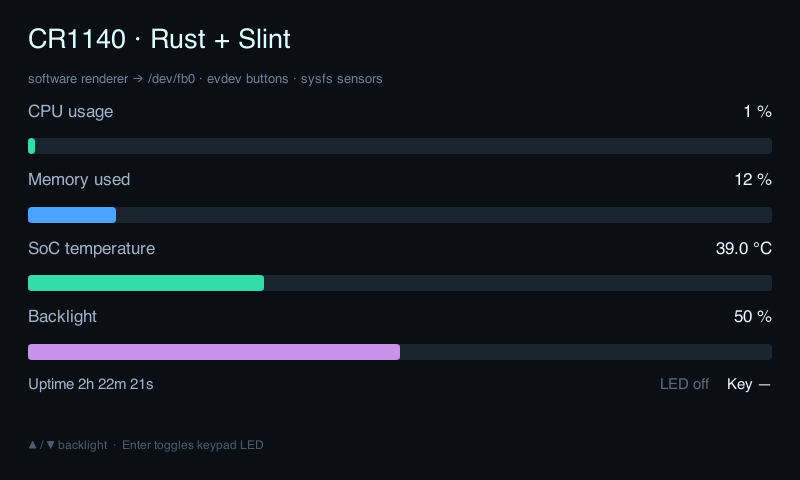
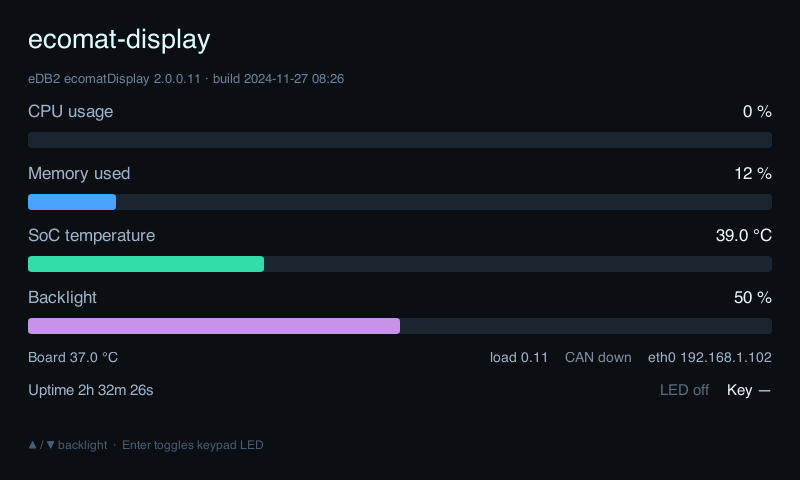
feat: promote Slint dashboard to autostart with real device telemetry
cr1140-app.service now runs cr1140-slint-demo. Dashboard shows real values:
hostname + firmware/build (/etc/os-release), CPU/mem/load/uptime, SoC temp
(cpu-thermal) and onboard board temp (lm75/hwmon), eth0 IP and can0 link state,
backlight + keypad LED. app-launcher/codesys stay masked for exclusive fb0.

diff --git a/cr1140-slint-demo/src/metrics.rs b/cr1140-slint-demo/src/metrics.rs
@@ -88,6 +88,57 @@ pub fn format_uptime(secs: f64) -> String {
     }
 }
 
+/// First field of `/proc/loadavg` = the 1-minute load average.
+pub fn parse_loadavg(content: &str) -> Option<f32> {
+    content.split_whitespace().next()?.parse().ok()
+}
+
+/// Look up a `KEY=value` entry in `/etc/os-release`, stripping optional quotes.
+pub fn os_release_value(content: &str, key: &str) -> Option<String> {
+    for line in content.lines() {
+        if let Some((k, v)) = line.split_once('=') {
+            if k == key {
+                return Some(v.trim().trim_matches('"').to_string());
+            }
+        }
+    }
+    None
+}
+
+// --- thin runtime readers (device I/O; exercised on-target, not in unit tests) ---
+
+pub fn read_loadavg() -> Option<f32> {
+    parse_loadavg(&fs::read_to_string("/proc/loadavg").ok()?)
+}
+
+/// Onboard lm75 board-temperature sensor (hwmon), distinct from the SoC zone.
+pub fn read_board_temp_c() -> Option<f32> {
+    let s = fs::read_to_string("/sys/class/hwmon/hwmon0/temp1_input").ok()?;
+    cr1140_hal::sys::parse::parse_millidegrees(&s)
+}
+
+/// `operstate` of a network interface, e.g. "up" / "down" for `eth0` / `can0`.
+pub fn read_operstate(iface: &str) -> String {
+    fs::read_to_string(format!("/sys/class/net/{iface}/operstate"))
+        .map(|s| s.trim().to_string())
+        .unwrap_or_else(|_| "?".into())
+}
+
+pub fn hostname() -> String {
+    fs::read_to_string("/proc/sys/kernel/hostname")
+        .map(|s| s.trim().to_string())
+        .unwrap_or_else(|_| "?".into())
+}
+
+/// Primary outbound IP, found by asking the kernel which source address it would
+/// use to reach a remote host. UDP `connect` only sets the route — no packets
+/// are sent — so this works offline and needs no extra dependency.
+pub fn local_ip() -> Option<String> {
+    let sock = std::net::UdpSocket::bind("0.0.0.0:0").ok()?;
+    sock.connect("8.8.8.8:80").ok()?;
+    Some(sock.local_addr().ok()?.ip().to_string())
+}
+
 #[cfg(test)]
 mod tests {
     use super::*;
@@ -127,5 +178,24 @@ mod tests {
     fn format_uptime_switches_on_hours() {
         assert_eq!(format_uptime(65.0), "1m 05s");
         assert_eq!(format_uptime(3725.0), "1h 02m 05s");
+    }
+
+    #[test]
+    fn parse_loadavg_reads_first_field() {
+        assert_eq!(parse_loadavg("0.17 0.08 0.08 1/99 12009"), Some(0.17));
+        assert_eq!(parse_loadavg(""), None);
+    }
+
+    #[test]
+    fn os_release_value_strips_quotes_and_matches_exactly() {
+        let s = "ID=edb2-ecomat-display\nPRETTY_NAME=\"eDB2 ecomatDisplay 2.0.0.11\"\nVERSION_ID=2.0.0.11\n";
+        assert_eq!(
+            os_release_value(s, "PRETTY_NAME").as_deref(),
+            Some("eDB2 ecomatDisplay 2.0.0.11")
+        );
+        assert_eq!(os_release_value(s, "VERSION_ID").as_deref(), Some("2.0.0.11"));
+        // exact key match: "ID" must not match "VERSION_ID"
+        assert_eq!(os_release_value(s, "ID").as_deref(), Some("edb2-ecomat-display"));
+        assert_eq!(os_release_value(s, "MISSING"), None);
     }
 }

diff --git a/cr1140-slint-demo/src/main.rs b/cr1140-slint-demo/src/main.rs
@@ -23,7 +23,8 @@ fn main() -> Result<(), Box<dyn std::error::Error>> {
     use cr1140_hal::input::{Button, ButtonEvent, ButtonReader};
     use cr1140_hal::sys::{backlight_max, read_temp_c, set_backlight, set_led};
     use metrics::{
-        format_uptime, mem_used_percent, parse_meminfo, parse_uptime, CpuSampler,
+        format_uptime, hostname, local_ip, mem_used_percent, os_release_value, parse_meminfo,
+        parse_uptime, read_board_temp_c, read_loadavg, read_operstate, CpuSampler,
     };
     use pixel::Xrgb8888;
     use platform::FbPlatform;
@@ -74,6 +75,16 @@ fn main() -> Result<(), Box<dyn std::error::Error>> {
         ui.set_backlight_text(format!("{pct} %").into());
     };
     push_backlight(&ui, backlight);
+
+    // --- static device identity (read once) ---
+    ui.set_hostname(hostname().into());
+    let osr = std::fs::read_to_string("/etc/os-release").unwrap_or_default();
+    let model = os_release_value(&osr, "PRETTY_NAME").unwrap_or_else(|| "ecomatDisplay".into());
+    let build = os_release_value(&osr, "BUILD_ID").unwrap_or_default();
+    let subtitle = if build.is_empty() { model } else { format!("{model} · build {build}") };
+    ui.set_subtitle(subtitle.into());
+    let eth = local_ip().unwrap_or_else(|| read_operstate("eth0"));
+    ui.set_eth_text(format!("eth0 {eth}").into());
 
     println!("ready; Slint dashboard on /dev/fb0 (Ctrl-C to exit)");
 
@@ -131,6 +142,13 @@ fn main() -> Result<(), Box<dyn std::error::Error>> {
                     ui.set_uptime(format_uptime(secs).into());
                 }
             }
+            if let Some(bt) = read_board_temp_c() {
+                ui.set_board_text(format!("Board {bt:.1} °C").into());
+            }
+            if let Some(l) = read_loadavg() {
+                ui.set_load_text(format!("load {l:.2}").into());
+            }
+            ui.set_can_text(format!("CAN {}", read_operstate("can0")).into());
         }
 
         // --- render only when dirty, then blit to the framebuffer ---

diff --git a/docs/slint-spike.md b/docs/slint-spike.md
@@ -4,9 +4,19 @@
 our HAL instead of hand-rolled pixel loops, while keeping the easy
 **static-musl** toolchain (no libdrm/libinput/libudev/fontconfig).
 
-**Result: works, on-device.** A 1.08 MB *statically linked* aarch64 binary
-renders a live dashboard (CPU, memory, SoC temperature, backlight, uptime) into
-`/dev/fb0`, reads the keypad via evdev, and drives backlight + LED on key press.
+**Result: works, on-device, and is now the autostart app.** A statically linked
+aarch64 binary renders a live dashboard into `/dev/fb0`, reads the keypad via
+evdev, and drives backlight + LED on key press. It runs as `cr1140-app.service`
+(enabled), having replaced the earlier hand-rolled pixel demo.
+
+Real device values on the dashboard (all read from the running device):
+- hostname + firmware/build from `/etc/os-release`
+- CPU% (`/proc/stat`), memory% (`/proc/meminfo`), uptime (`/proc/uptime`),
+  1-min load (`/proc/loadavg`)
+- **SoC temperature** (`thermal_zone0`, cpu-thermal) and a distinct **board
+  temperature** (onboard `lm75` via hwmon)
+- backlight % (sysfs), keypad LED state
+- `eth0` IP (kernel source-address lookup, no extra deps) and `can0` link state
 
 ![dashboard](slint-spike-screenshot.png)
 
@@ -64,9 +74,15 @@ full-frame loop). The HAL remains the non-GUI hardware layer: framebuffer
 ownership, evdev input bridging, sysfs LEDs/backlight, temperature, CAN. That
 split is exactly Option B.
 
+## Autostart
+
+Promoted to `cr1140-app.service` (`deploy/cr1140-app.service` →
+`ExecStart=/home/cds-apps/cr1140-slint-demo`). `app-launcher.service` and
+`codesys.service` stay masked, so the app keeps exclusive `/dev/fb0` ownership
+across reboots. `deploy/install.sh` performs the masking on a fresh device.
+
 ## Not done (out of spike scope)
 
-- Promoting this to the autostart service (still runs the earlier pixel demo).
 - Dispatching evdev keys as Slint key events (we update properties / drive HW
   directly instead — fine for a fixed-function panel).
 - Partial-region blit (we blit the full frame when dirty; cheap at 800×480).